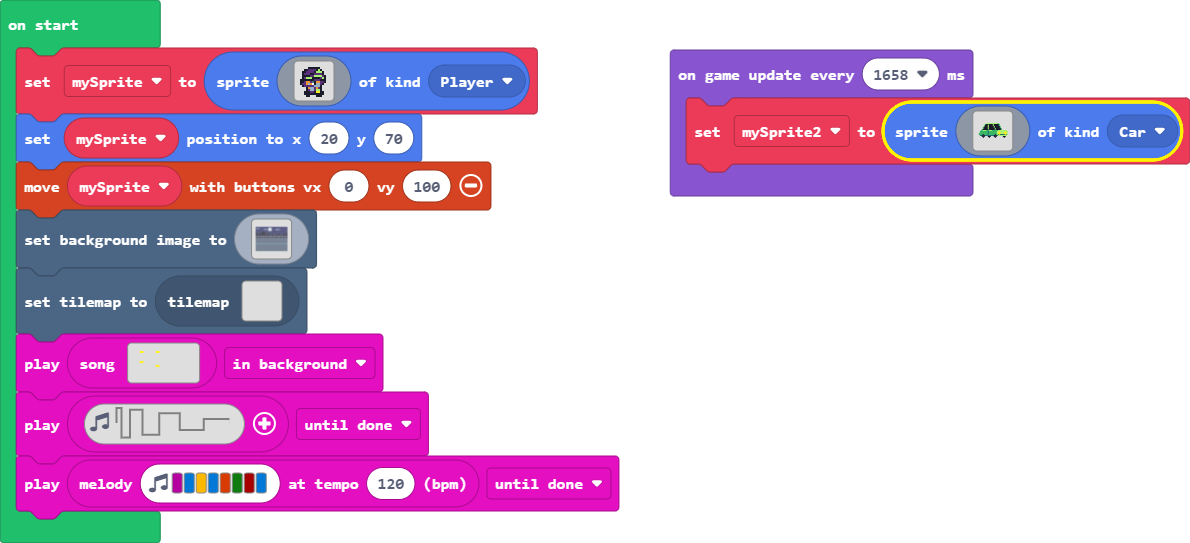
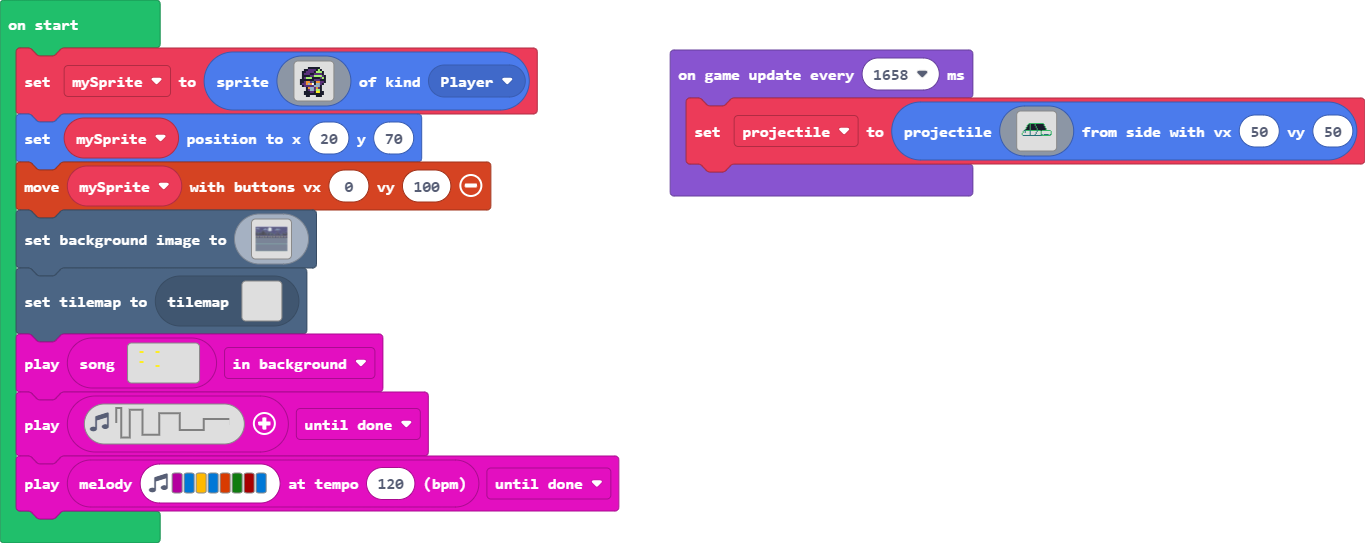
Update main.blocks, main.ts

diff --git a/main.ts b/main.ts
@@ -1,7 +1,7 @@
 namespace SpriteKind {
     export const Car = SpriteKind.create()
 }
-let mySprite2: Sprite = null
+let projectile: Sprite = null
 let mySprite = sprites.create(img`
     . . . . . . . . . . . . . . . . 
     . . . . . f f f f f f . . . . . 
@@ -149,22 +149,22 @@ music.play(music.createSong(hex`0078000408020100001c00010a006400f401640000040000
 music.play(music.createSoundEffect(WaveShape.Square, 5000, 1, 255, 0, 575, SoundExpressionEffect.None, InterpolationCurve.Logarithmic), music.PlaybackMode.UntilDone)
 music.play(music.stringPlayable("C E A E B G C5 E ", 120), music.PlaybackMode.UntilDone)
 game.onUpdateInterval(1658, function () {
-    mySprite2 = sprites.create(img`
-        .........2222222222227..........
-        ........7ff7ffff2fffff7.........
-        .......2fff2ffff2fffff7.........
-        .......7fff2fffff2fffff7........
-        ......7ffff2fffff7fffff7........
-        ......7ffff2ffffff2fffff7.......
-        .....7fffff7ffffff7fffff7.......
-        ....77222776222777777222222222..
-        ...7777777767777777722522222522.
-        ...7777777767777777725552225552.
-        ..77777777767777777725552225552.
-        ..7777f77776777777f726566666562.
-        ...66fcf666666666fcf6222222222..
-        .....fcf...fff...fcf......fff...
-        ......f.....f.....f........f....
+    projectile = sprites.createProjectileFromSide(img`
+        ........777777777777777.........
+        .......7f7ffff7ffffffff7........
+        ......7ff7ffff7ffffffff7........
+        ......7ff7fffff7ffffffff7.......
+        .....7fff7fffff7ffffffff7.......
+        .....7fff7ffffff7ffffffff7......
+        ....7ffff7ffffff7ffffffff7......
+        ...66777767777776777f777777777..
+        ..7.6....6......6...7.........7.
+        ..7.6....6.....6....7.........7.
+        .7.......6.....6....7.........7.
+        .7.......6....6.....76.66666.67.
+        ..6666666666666666666777777777..
         ................................
-        `, SpriteKind.Car)
+        ................................
+        ................................
+        `, 50, 50)
 })
